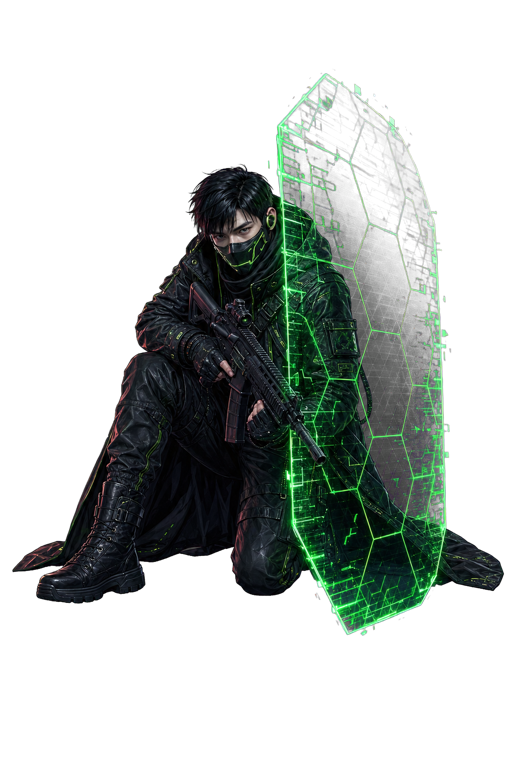
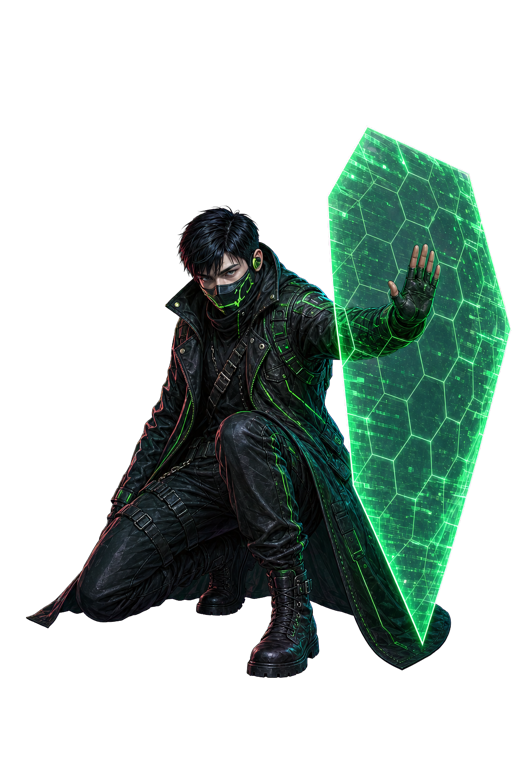
feat(art): regenerate final cover poses

diff --git a/docs/NEXT_PLAN.md b/docs/NEXT_PLAN.md
@@ -12,7 +12,7 @@ Authority QA: `docs/test/neo_seoul_live_qa.md`. **Latest deploy = `mythos-api-00
 
 ### Live playtest triage 2026-07-11 (owner session on 00042-97c) — diagnosed, fixes need owner scope pick
 - `[x]` **07-11 트리아지 배치 전체 DONE** — 전투 A/V 싱크 A+B+C(`654bdd0`/`6571351`) · drone_scrap few-shot 중립화 · 미등장 아군 HOLD("이름+대사 필수" 규칙 포함) · 프로덕션 이미지 실패 재시도 + Imagen 쿼터 1→30/min(`40ccaea`) · 용어 직관화 용어집 11종/naming 가드(`ece8e08`) · EN 오프닝 카드 패리티(`8a9362a`) — 상세 `bin/docs/archive/progress-2026-07.md`. 잔여 `[ ]` `[manual]` 항목별 라이브 체감은 `docs/test/neo_seoul_live_qa.md`가 권위 (구 `imagen-3.0` 쿼터 증액 신청은 lever#3 모델 이관으로 폐기 — Gemini 429 관찰로 대체).
-- **전투 갈아엎기**: 리서치 → `docs/plans/2026-07-11-combat-redesign-research.md` (A안 권고). **P0 DONE (`139587b`)**: 완전 텔레그래프(⚔+주사위 피해+공격선) · 아레나 전부 10×7 · 지형 스프라이트 레이어(에셋 없으면 기존 룩 폴백). 남음: `[ ]` `[manual]` P0 실플레이 재체감 on 00045 (텔레그래프 "안 바뀜" = stale-radar 버그였음 → `055fa9d` 수정+배포; 그리드 페이스·텔레그래프 가독) · `[x]` `[auto:agy]` **지형 타일 아트 3종 DONE (`37afcd2`) — `resources/neo-seoul/combat/tiles/{floor,cover_half,cover_full}.png` (FLUX 아이소 타일; FLUX는 불투명 RGB라 canvas 계약의 투명 모서리 위배 → floor=기하 다이아몬드 알파 마스크, cover=근흑 루미넌스 키로 후처리) · **P1 밀기/당기기 DONE** (`5d75d63` `_skill_displace` 지형 상호작용 — overload_strike push:1 + `magnetic_pull` 당기기 스킬; **명중확률 유지**=오너 지시, 무확률 제거는 안 함) + **엄폐 배지 DONE** (`508ad72` 🛡+3/+6). `[x]` **엄폐 포즈 배선 DONE (claude 인계)** — 엄폐 칸 위 유닛은 웅크림 포즈 렌더: pose `"cover"` + `<char>-cover.png` 파생 규약(guard/idle 경로에서 유도), 스프라이트 로드 실패 시 guard 포즈 폴백; +3 소스락 tests. `[x]` `[auto:codex]` 크라우치 스프라이트 1차 생성(`4d5b3be`) → **오너 리젝** (동일 템플릿 + 정체성 뒤섞임). `[/]` `[auto:codex]` **엄폐 포즈 아트 정체성 재생성 — 5/7 확정, 2장 재생성 (오너 규칙 07-12)** — 브리프 `scratch/codex-cover-pose-brief.md` 준수, 자기 guard/idle 레퍼런스 생성, 부분 승격 2회차: se-rin/kai (`df8d1e6`, 러너 image-judge PASS + AGY live-QA PASS_CANDIDATE) → 잔여 5장은 codex 커밋(`33b5a4a`)이 critic-reject(이 항목을 [manual] 후속 없이 DONE으로 닫음)로 revert된 뒤 아트만 복원 + claude 시각 정체성 재판정으로 재적용(`2942a74`; 린위에=여성 인간·태오=남성·7장 포즈 상이). **오너 비교시트 리뷰에서 신규 규칙 확정: cover 소품/무기는 그 캐릭터의 guard 정본에 있는 것만** → `[ ]` `[auto:codex]` **player-noise(총기 제거 — 정본은 비무장·guard 맨손)·su-ah(데이터패드→guard 나이프) 2장만 재생성**, 브리프 3차 개정 반영, criterion: 부분 승격 + 셀프체크 4항이 guard 소품 대조로 강화됨 + `make check` green. 체크표 `outputs/cover-pose-regen/review.md`, 후보/소스 동 디렉토리 보존. `[ ]` `[manual]` **오너 정체성 최종 확인** — 비교 시트 `outputs/cover-pose-regen/comparison-sheet.png` (신규 cover vs 정본 idle/guard ×7, 2장 재생성 후 재생성분 반영해 갱신)로 승인 또는 장별 재생성 지시; 승인 전 deploy 금지 해제 불가. · `[x]` `[auto:codex]` `magnetic_pull` 전용 아이콘 재생성 DONE (기존 `emp_pulse` 복사 플레이스홀더 교체; `make check` green).
+- **전투 갈아엎기**: 리서치 → `docs/plans/2026-07-11-combat-redesign-research.md` (A안 권고). **P0 DONE (`139587b`)**: 완전 텔레그래프(⚔+주사위 피해+공격선) · 아레나 전부 10×7 · 지형 스프라이트 레이어(에셋 없으면 기존 룩 폴백). 남음: `[ ]` `[manual]` P0 실플레이 재체감 on 00045 (텔레그래프 "안 바뀜" = stale-radar 버그였음 → `055fa9d` 수정+배포; 그리드 페이스·텔레그래프 가독) · `[x]` `[auto:agy]` **지형 타일 아트 3종 DONE (`37afcd2`) — `resources/neo-seoul/combat/tiles/{floor,cover_half,cover_full}.png` (FLUX 아이소 타일; FLUX는 불투명 RGB라 canvas 계약의 투명 모서리 위배 → floor=기하 다이아몬드 알파 마스크, cover=근흑 루미넌스 키로 후처리) · **P1 밀기/당기기 DONE** (`5d75d63` `_skill_displace` 지형 상호작용 — overload_strike push:1 + `magnetic_pull` 당기기 스킬; **명중확률 유지**=오너 지시, 무확률 제거는 안 함) + **엄폐 배지 DONE** (`508ad72` 🛡+3/+6). `[x]` **엄폐 포즈 배선 DONE (claude 인계)** — 엄폐 칸 위 유닛은 웅크림 포즈 렌더: pose `"cover"` + `<char>-cover.png` 파생 규약(guard/idle 경로에서 유도), 스프라이트 로드 실패 시 guard 포즈 폴백; +3 소스락 tests. `[x]` `[auto:codex]` 크라우치 스프라이트 1차 생성(`4d5b3be`) → **오너 리젝** (동일 템플릿 + 정체성 뒤섞임). `[/]` `[auto:codex]` **엄폐 포즈 아트 정체성 재생성 — 5/7 확정, 2장 재생성 (오너 규칙 07-12)** — 브리프 `scratch/codex-cover-pose-brief.md` 준수, 자기 guard/idle 레퍼런스 생성, 부분 승격 2회차: se-rin/kai (`df8d1e6`, 러너 image-judge PASS + AGY live-QA PASS_CANDIDATE) → 잔여 5장은 codex 커밋(`33b5a4a`)이 critic-reject(이 항목을 [manual] 후속 없이 DONE으로 닫음)로 revert된 뒤 아트만 복원 + claude 시각 정체성 재판정으로 재적용(`2942a74`; 린위에=여성 인간·태오=남성·7장 포즈 상이). **오너 비교시트 리뷰에서 신규 규칙 확정: cover 소품/무기는 그 캐릭터의 guard 정본에 있는 것만** → `[x]` `[auto:codex]` **player-noise(총기 제거 — 정본은 비무장·guard 맨손)·su-ah(데이터패드→guard 나이프) 2장 재생성 DONE** — 브리프 3차 개정 준수, 부분 승격 + guard 소품 대조 셀프체크 PASS + `make check` green. 체크표 `outputs/cover-pose-regen/review.md`, 후보/소스 동 디렉토리 보존. `[ ]` `[manual]` **오너 정체성 최종 확인** — 비교 시트 `outputs/cover-pose-regen/comparison-sheet.png` (신규 cover vs 정본 idle/guard ×7, 2장 재생성 후 재생성분 반영해 갱신)로 승인 또는 장별 재생성 지시; 승인 전 deploy 금지 해제 불가. · `[x]` `[auto:codex]` `magnetic_pull` 전용 아이콘 재생성 DONE (기존 `emp_pulse` 복사 플레이스홀더 교체; `make check` green).
 
 ### Narrative clarity audit follow-ups (2026-07-10, 4-lane audit)
 - `[ ]` `[manual]` **Track 4 balance playtest** — play-style consequence system now ON (`advance_route` axis tally → intent flag @ threshold 2); play two loops in different styles, confirm story/results diverge + balance OK, tune threshold/mapping if needed. **B4 stat-tag** decision rides along (`(민첩)` reads as a check but has 0 effect — make real or restyle).

diff --git a/docs/PROGRESS_LOG.md b/docs/PROGRESS_LOG.md
@@ -2,6 +2,13 @@
 
 Last updated: 2026-07-12
 
+## 2026-07-12 — overnight Codex: final two cover-pose sprites regenerated
+- Status: Done; the seven-character cover set is ready for owner identity sign-off, still undeployed.
+- Changed: regenerated and promoted `player-noise-cover.png` (short-haired masked, unarmed, green hex shield) and `su-ah-cover.png` (glasses/bun, purple shield, guard-matching knife); refreshed `outputs/cover-pose-regen/comparison-sheet.png` and the review table.
+- Verified: inspected each target's idle/guard references and final alpha candidates; both final files are 512×768 RGBA with transparent corners. `make check` green (993 tests).
+- Blockers: none for the automated item; `[manual]` owner comparison-sheet identity approval still gates deployment.
+- Next: owner reviews `outputs/cover-pose-regen/comparison-sheet.png`; if approved, push and deploy with `IMAGEN_MODEL=gemini-3.1-flash-image` remain owner-only actions.
+
 ## 2026-07-12 (live session, claude lane) — cover-pose regen: 잔여 5장 재적용 → 오너 리뷰로 2장 재오픈
 - Status: 5/7 확정 (`2942a74`). 오너 비교시트 리뷰에서 신규 캐논 규칙 확정 — **cover 소품은 그 캐릭터 guard 정본에 있는 것만** → player-noise(라이플, 정본은 비무장)·su-ah(데이터패드, guard=나이프) FAIL 재시드(브리프 3차 개정: guard-소품 규칙 명문화, 오염원이던 브리프의 "소총/데이터패드" 지시 수정). UNDEPLOYED.
 - 러너 2회차(codex)가 잔여 5장(lin-yue/su-ah/tae-o/han/player-noise)을 승격했으나(`33b5a4a`) critic이 정당하게 reject — NEXT_PLAN에서 이 항목을 `[manual]` 후속 없이 DONE으로 닫고 불릿의 잔여 이력을 삭제했기 때문(아트 품질 문제 아님). revert(`0647fab`) 후 claude가 아트 5장만 복원하고 문서를 후속-보존형으로 재작성.
